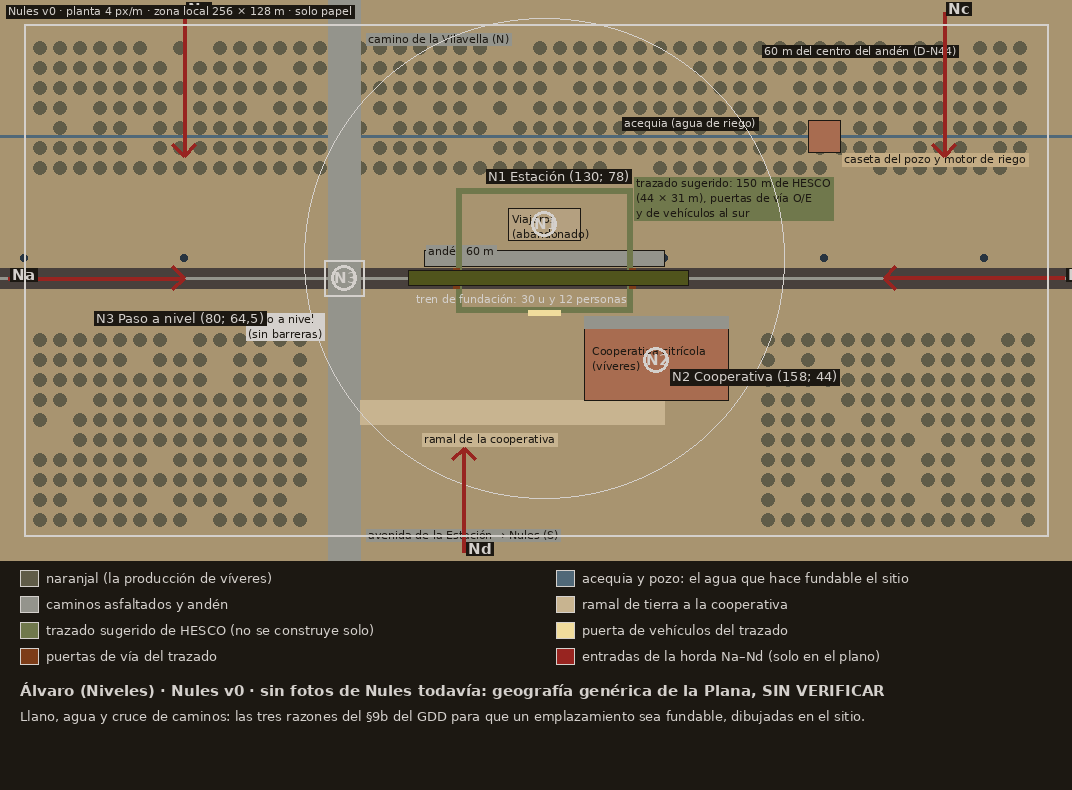
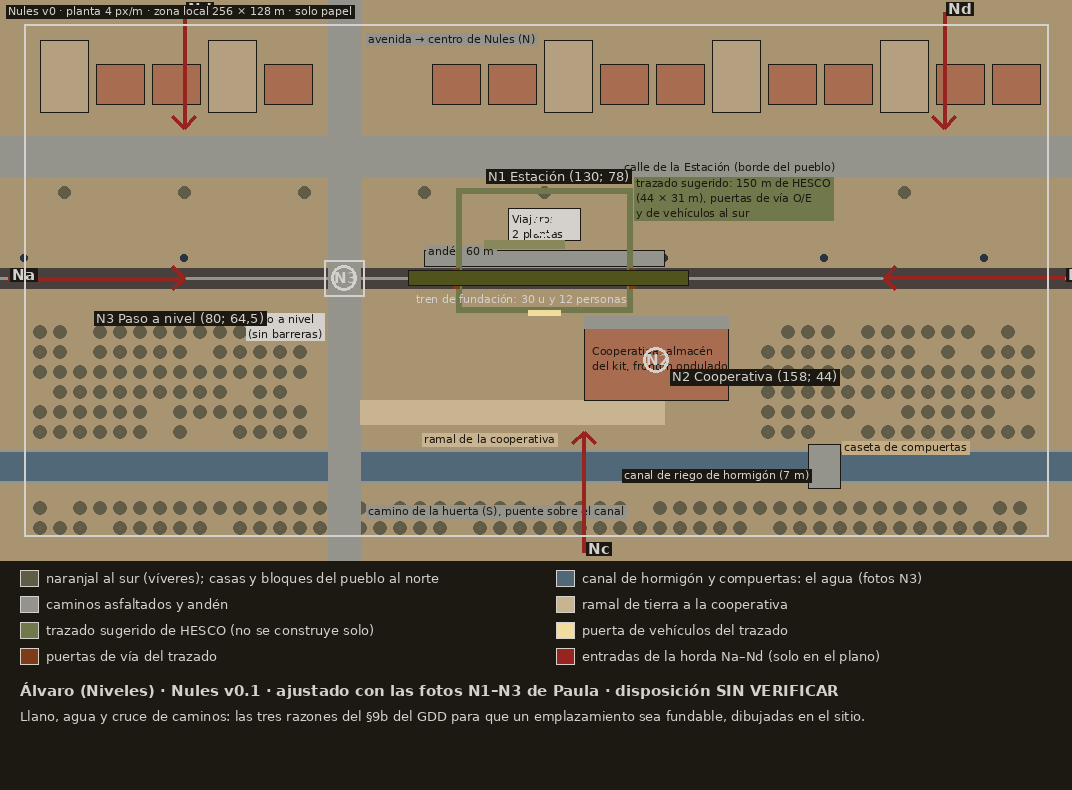
Nules v0.1: ajuste con las fotos N1-N3 de Paula
Claude-Session: https://claude.ai/code/session_01A4RyjScdBuNc7GbjKkppYP

diff --git a/docs/niveles/herramientas/plano_nules_v0.py b/docs/niveles/herramientas/plano_nules_v0.py
@@ -20,25 +20,34 @@ def naranjal(x0,z0,x1,z1):
     for x in np.arange(x0,x1,5):
         for z in np.arange(z0,z1,5):
             if random.random()<0.9: d.ellipse([P(x-1.6,z+1.6),P(x+1.6,z-1.6)],fill="#605c48")
-naranjal(4,92,250,126); naranjal(4,4,70,50); naranjal(186,4,252,50)
-L([(X0,100),(X1,100)],"#506878",3); T(150,105,"acequia (agua de riego)","#d4d0cc",FS,"#1c1812")
-R(196,96,204,104,fill="#a86c50",outline="#1c1812"); T(205,96,"caseta del pozo y motor de riego","#1c1812",FS,"#c4ac84")
+naranjal(4,26,70,52); naranjal(186,26,252,52); naranjal(4,2,250,11)
+# pueblo al norte (fotos N1_6: bloques y casas pegados a la estación) con el kit de Sagunto
+for i,x in enumerate(range(4,250,14)):
+    if abs(x-80)<10: continue
+    if i%3==0: R(x,106,x+12,124,fill="#b4a080",outline="#1c1812")
+    else: R(x,108,x+12,118,fill="#a86c50",outline="#1c1812")
+R(X0,90,X1,100,fill="#94948c"); T(150,94,"calle de la Estación (borde del pueblo)","#1c1812",FS,"#94948c")
+for x in range(10,250,30): d.ellipse([P(x-1.5,87.5),P(x+1.5,84.5)],fill="#605c48")
+# canal de hormigón con muros, caseta de compuertas, cañar y palmeras (fotos N3)
+R(X0,14,X1,21,fill="#506878"); L([(X0,13.6),(X1,13.6)],"#94948c",2); L([(X0,21.4),(X1,21.4)],"#94948c",2)
+R(196,12,204,23,fill="#94948c",outline="#1c1812"); T(205,24,"caseta de compuertas","#1c1812",FS,"#c4ac84")
+T(150,17,"canal de riego de hormigón (7 m)","#d4d0cc",FS,"#1c1812")
 # vía, andén, edificio de viajeros abandonado
 R(X0,62,X1,67,fill="#48403c"); L([(X0,64.5),(X1,64.5)],"#94948c",3)
 for x in range(0,257,40): d.ellipse([P(x-0.8,70.3),P(x+0.8,68.7)],fill="#283440")
 R(100,67.5,160,71.5,fill="#94948c",outline="#1c1812"); T(101,73,"andén 60 m","#1c1812",FS,"#94948c")
-R(121,74,139,82,fill="#b4a080",outline="#1c1812"); T(122,81,"Viajeros\n(abandonado)","#1c1812",FS)
+R(121,74,139,82,fill="#d4d0cc",outline="#1c1812"); R(115,72,135,74,fill="#88885c"); T(122,81,"Viajeros\n2 plantas","#1c1812",FS)
 # cruce de caminos: camino de la Vilavella (N) y avenida de la Estación (S), paso a nivel en X 80
-R(76,Z0,84,Z1,fill="#94948c"); T(86,126,"camino de la Vilavella (N)","#1c1812",FS,"#94948c"); T(86,2,"avenida de la Estación → Nules (S)","#1c1812",FS,"#94948c")
+R(76,Z0,84,Z1,fill="#94948c"); T(86,126,"avenida → centro de Nules (N)","#1c1812",FS,"#94948c"); T(86,8,"camino de la huerta (S), puente sobre el canal","#1c1812",FS,"#94948c")
 R(75,60,85,69,outline="#d4d0cc",w=2); T(56,56,"paso a nivel\n(sin barreras)","#1c1812",FS,"#d4d0cc")
 R(84,28,160,34,fill="#c8b490"); T(100,26,"ramal de la cooperativa","#1c1812",FS,"#c8b490")
 # cooperativa citrícola (almacén de naranjas con muelle)
-R(140,34,176,52,fill="#a86c50",outline="#1c1812"); R(140,52,176,55,fill="#94948c"); T(142,48,"Cooperativa citrícola\n(víveres)","#1c1812",FS)
+R(140,34,176,52,fill="#a86c50",outline="#1c1812"); R(140,52,176,55,fill="#94948c"); T(142,48,"Cooperativa: almacén\ndel kit, frontón ondulado","#1c1812",FS)
 # trazado sugerido de 150 m de HESCO (44 × 31 m) a ≤ 60 m del andén, con dos puertas de vía y una de vehículos
 R(108,56,152,87,outline="#70784c",w=6)
 L([(108,62),(108,67)],"#7c3c18",7); L([(152,62),(152,67)],"#7c3c18",7); L([(126,56),(134,56)],"#f0dc9c",6)
 T(153,90,"trazado sugerido: 150 m de HESCO\n(44 × 31 m), puertas de vía O/E\ny de vehículos al sur","#1c1812",FS,"#70784c")
-d.ellipse([P(130-60,69.5+60),P(130+60,69.5-60)],outline="#d4d0cc",width=1); T(185,123,"60 m del centro del andén (D-N44)","#d4d0cc",FS,"#1c1812")
+
 # tren al fundar
 R(96,62.6,166,66.4,fill="#50541c",outline="#1c1812"); T(98,61,"tren de fundación: 30 u y 12 personas","#d4d0cc",FS)
 # sitios
@@ -49,14 +58,14 @@ def flecha(x0,z0,x1,z1,lab):
     L([(x0,z0),(x1,z1)],"#982420",4); a=np.arctan2(z1-z0,x1-x0)
     for s in (2.6,-2.6): L([(x1,z1),(x1-4*np.cos(a+s*0.3),z1-4*np.sin(a+s*0.3))],"#982420",4)
     T(x0+1,z0+3,lab,"#d4d0cc",FB,"#1c1812")
-flecha(-4,64.5,40,64.5,"Na"); flecha(260,64.5,215,64.5,"Nb"); flecha(40,131,40,95,"Nc"); flecha(230,131,230,95,"Nc"); flecha(110,-4,110,22,"Nd")
+flecha(-4,64.5,40,64.5,"Na"); flecha(260,64.5,215,64.5,"Nb"); flecha(40,131,40,102,"Nd"); flecha(230,131,230,102,"Nd"); flecha(140,-4,140,26,"Nc")
 R(0,0,256,128,outline="#d4d0cc",w=2)
 T(-4,133,"Nules v0 · planta 4 px/m · zona local 256 × 128 m · solo papel","#d4d0cc",FS,"#1c1812")
 ly=H+10
-items=[("#605c48","naranjal (la producción de víveres)"),("#506878","acequia y pozo: el agua que hace fundable el sitio"),("#94948c","caminos asfaltados y andén"),("#c8b490","ramal de tierra a la cooperativa"),("#70784c","trazado sugerido de HESCO (no se construye solo)"),("#f0dc9c","puerta de vehículos del trazado"),("#7c3c18","puertas de vía del trazado"),("#982420","entradas de la horda Na–Nd (solo en el plano)")]
+items=[("#605c48","naranjal al sur (víveres); casas y bloques del pueblo al norte"),("#506878","canal de hormigón y compuertas: el agua (fotos N3)"),("#94948c","caminos asfaltados y andén"),("#c8b490","ramal de tierra a la cooperativa"),("#70784c","trazado sugerido de HESCO (no se construye solo)"),("#f0dc9c","puerta de vehículos del trazado"),("#7c3c18","puertas de vía del trazado"),("#982420","entradas de la horda Na–Nd (solo en el plano)")]
 for i,(c,t) in enumerate(items):
     x=20+(i%2)*W//2; y=ly+(i//2)*26
     d.rectangle([x,y,x+18,y+16],fill=c,outline="#d4d0cc"); d.text((x+26,y),t,fill="#d4d0cc",font=F)
-d.text((20,ly+112),"Álvaro (Niveles) · Nules v0 · sin fotos de Nules todavía: geografía genérica de la Plana, SIN VERIFICAR",fill="#d4d0cc",font=FB)
+d.text((20,ly+112),"Álvaro (Niveles) · Nules v0.1 · ajustado con las fotos N1–N3 de Paula · disposición SIN VERIFICAR",fill="#d4d0cc",font=FB)
 d.text((20,ly+138),"Llano, agua y cruce de caminos: las tres razones del §9b del GDD para que un emplazamiento sea fundable, dibujadas en el sitio.",fill="#d4d0cc",font=F)
 im.save("/mnt/project-files/docs/niveles/nules_plano_v0.png"); print(im.size)

diff --git a/docs/niveles/nules-nivel.md b/docs/niveles/nules-nivel.md
@@ -12,6 +12,14 @@ Además, lo que produce tiene edificio: la **cooperativa citrícola** junto a la
 
 **Aviso de realidad:** Nules sí tiene estación real en la línea de la costa (Nules–La Vilavella, SIN VERIFICAR con fuente). En el juego se lee como «estación abandonada que se vuelve a abrir», no como un descampado. Paula todavía no tiene fotos de Nules, así que la disposición es genérica de la Plana y va **SIN VERIFICAR** entera.
 
+## 0c. Ajuste con las fotos de Nules (7-nov, 09:25; `referencias-reales/nules/`, N1–N3)
+- **N1_6: la estación está pegada al pueblo**, con bloques y casas justo detrás de la playa de vías, no en medio de la huerta. **Cambio:** el norte de la zona pasa a ser **el borde del pueblo** (Z 90–124), con la calle de la Estación, casas bajas y bloques del kit de Sagunto (`casa_pueblo`, `bloque_pisos`). La huerta de naranjos se queda al sur. La entrada desde el pueblo pasa a ser **Nd, por el norte**, y la de la huerta, **Nc, por el sur**.
+- **N1_6 también muestra doble vía con catenaria** (línea de la costa). Dentro del recinto mantengo **una sola vía**, como en Sagunto (decidido con Lucía), para no cambiar las puertas ni el coste de Hugo. La doble vía es un cambio de Lucía.
+- **N1_2, N1_3 y N1_5**: marquesinas metálicas de pilares sobre el andén, con valla de malla. Encaja con la marquesina de celosía del kit (0b).
+- **N2: la cooperativa** se hace con el **almacén de naranjas del kit de Sagunto**, con la variante de **frontón ondulado con óculo, encalado, zócalo gris y portón metálico** (Alcàsser, N2_2–3). Es una sustituta: de Nules no hay foto libre. La nave moderna de La Vilavella (N2_1, bloque con marquesina verde) sirve de quinta variante.
+- **N3: el agua.** La acequia con pozo pasa a ser **un canal de riego de hormigón de unos 7 m**, con muros, barandilla, caseta de compuertas, cañar y palmeras (Canal de Nules y del Bovalar, N3_1–3). Lo pongo al sur, en Z 14–21, cruzando la huerta, con la caseta de compuertas en X 196–204. **SIN VERIFICAR**: esos canales están en la marjal, junto a la costa, y no junto a la estación. Aquí se usa el tipo, no el lugar. **Cómo se juega:** el canal es un obstáculo natural que obliga a Nc a cruzar por el puente del camino de la huerta (X 80) o por la caseta de compuertas. Son dos cuellos de botella al sur.
+- Lo que no cambia: andén, edificio (0b), cooperativa en su sitio, recinto de 150 m y el coste de Hugo (127,2 u).
+
 ## 0b. Ajuste con las fotos reales (7-nov, 09:20; E1_1 y E1_3 de Paula, `referencias-reales/ambientacion/`)
 Las fotos E1_1 y E1_3 son de **Nules–La Vilavella** (el cartel de Adif se lee). Con ellas cambian tres cosas:
 - **El edificio de viajeros tiene dos plantas y no una**: fachada encalada con zócalo y bandas grises, **5 huecos por planta** con recercos grises de arco rebajado, tejado de teja a dos aguas y, en el testero, un **piñón escalonado con óculo**, que es el rasgo que lo distingue. Lo dejo en 18 × 8 m (X 121–139, Z 74–82), unos 8–9 m de alto (cuenta a ojo con la puerta de ~2,4 m; SIN VERIFICAR). Teo lo monta con dos plantas de módulos de 4 m y el testero escalonado como remate.
